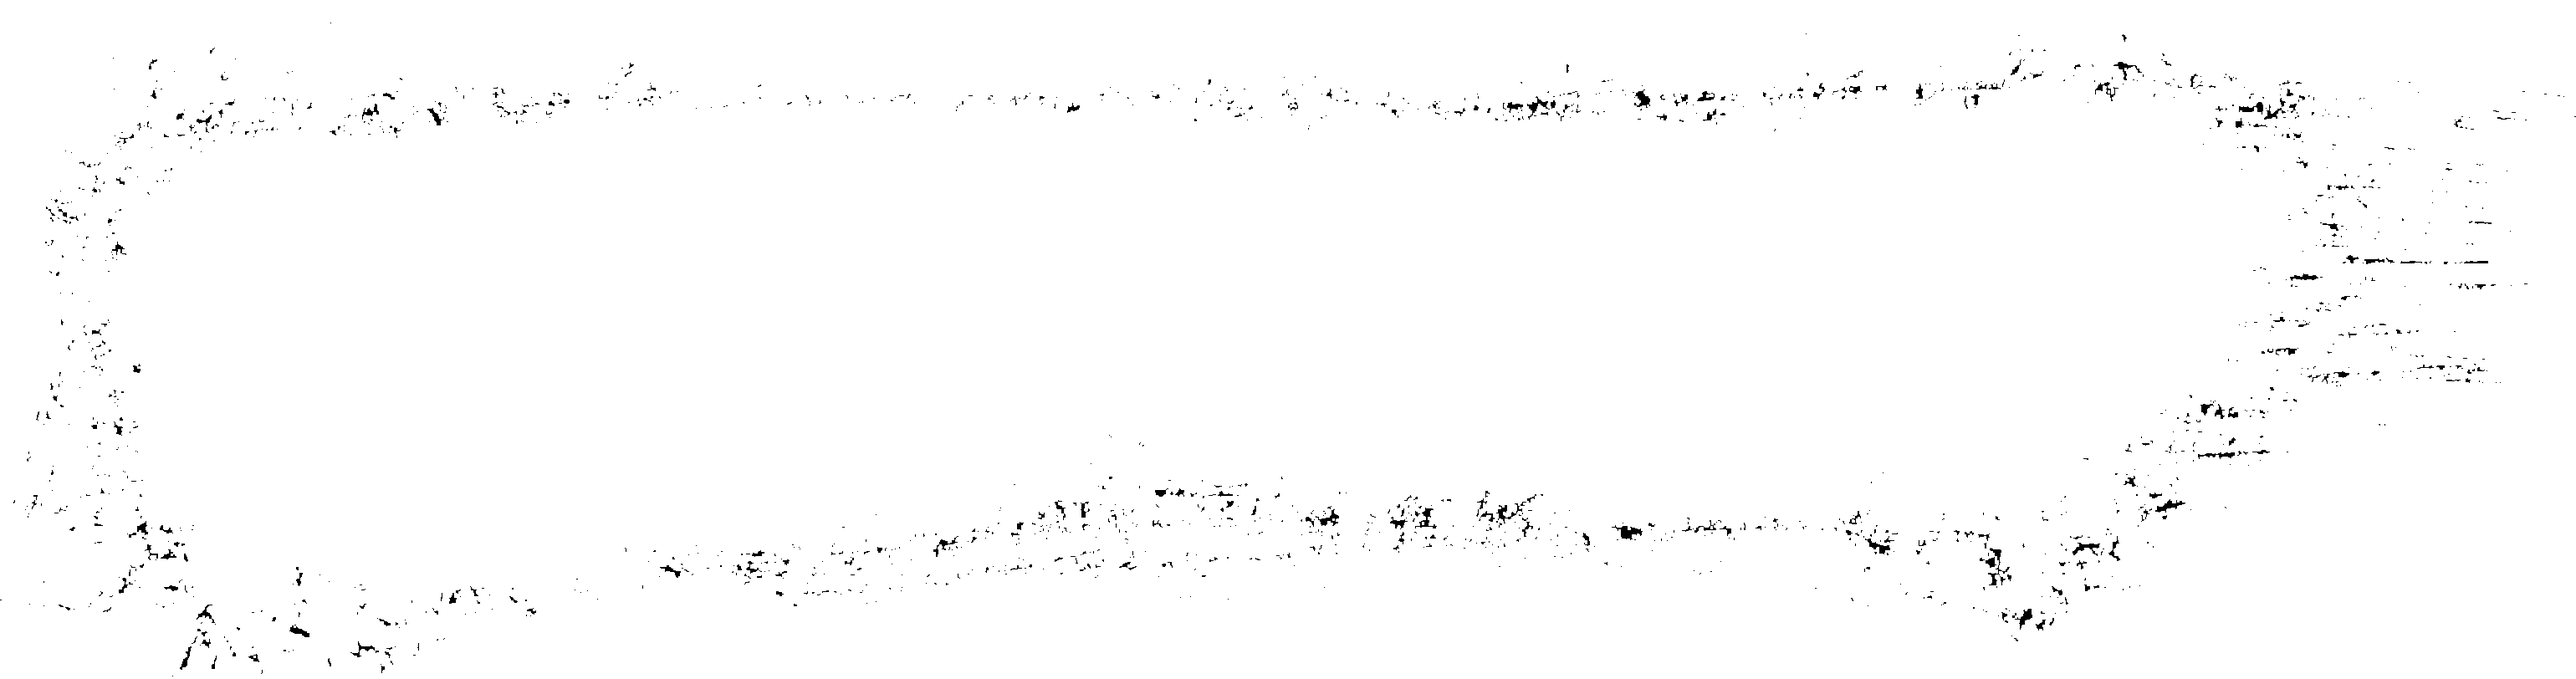
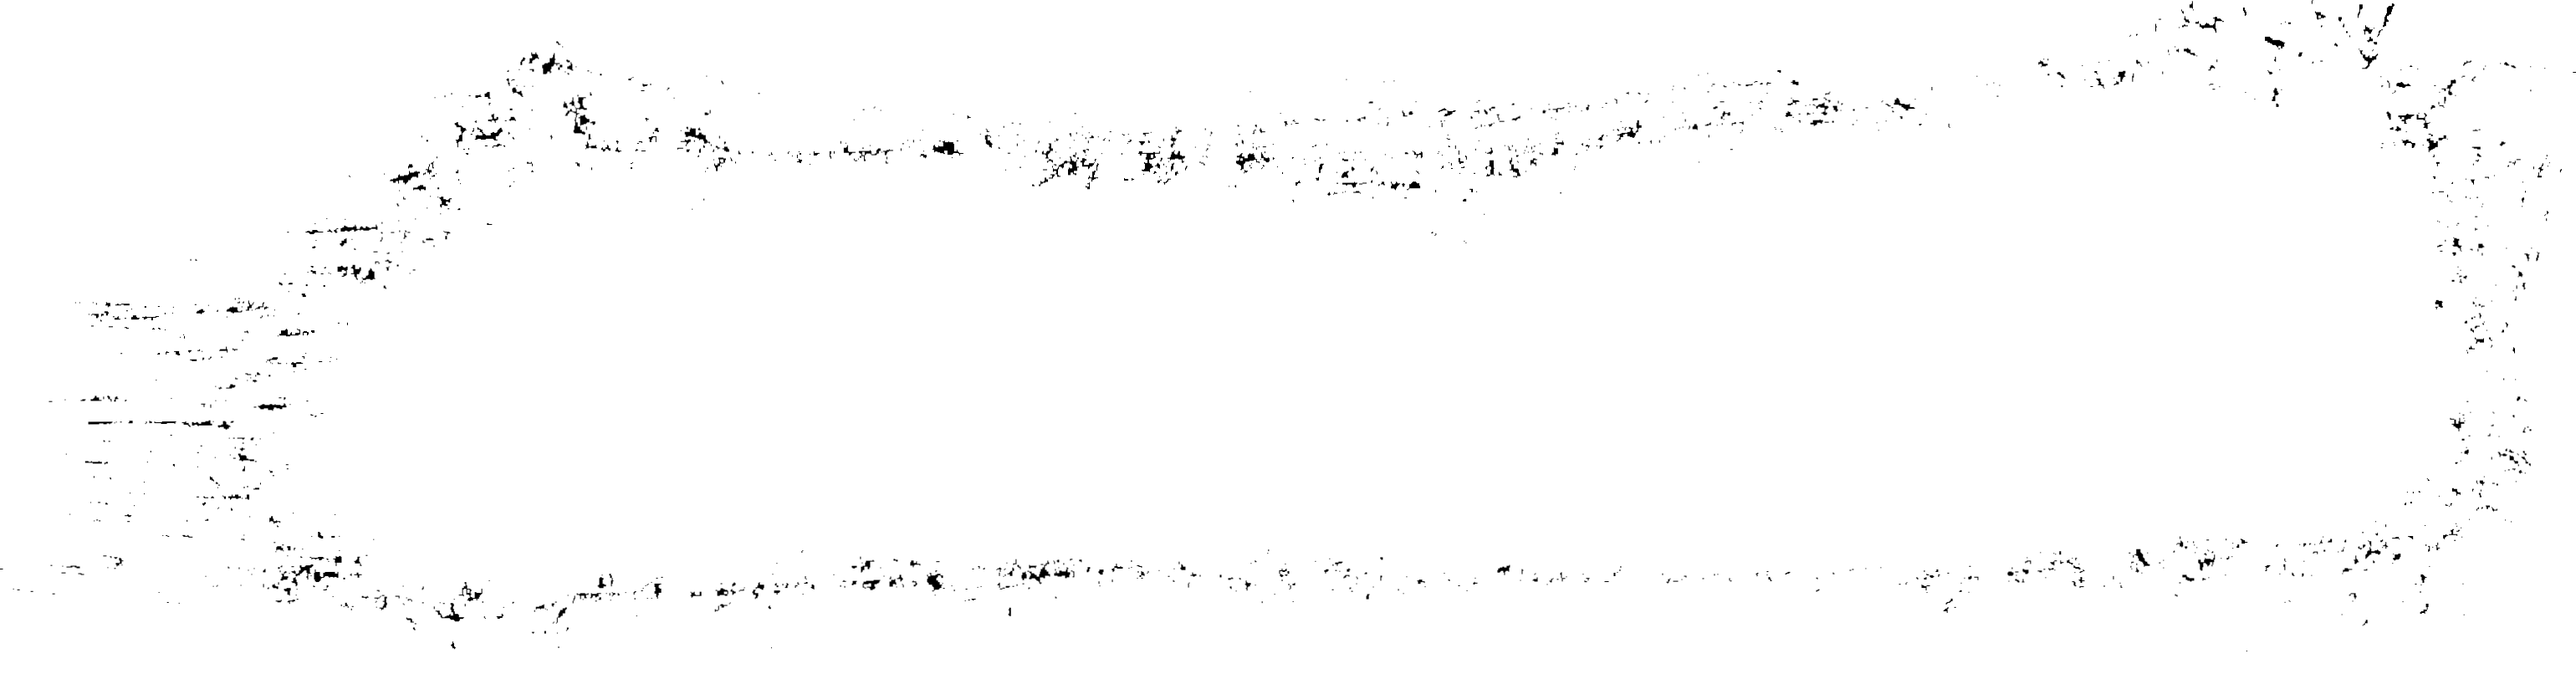
added recent post container chaged description text

diff --git a/components/landing/container/ParallaxContainer.tsx b/components/landing/container/ParallaxContainer.tsx
@@ -1,5 +1,8 @@
 import { Parallax, ParallaxLayer } from "@react-spring/parallax";
+import { rgb, rgba } from "@react-spring/shared";
+import Link from "next/link";
 import { useRef } from "react";
+import { WomLink } from "../../navigation/largeDevice/WomLink";
 import { RecentPosts } from "../../postcontainer/RecentPosts";
 
 import { PageTitle } from "../titles/PageTitle";
@@ -19,7 +22,7 @@ export const ParallaxContainer = () => {
   return (
     <section>
       <Parallax
-        pages={20}
+        pages={40}
         style={{
           width: "85vw",
           height: "90vh",
@@ -35,7 +38,7 @@ export const ParallaxContainer = () => {
             return (
               <ParallaxLayer
                 key={key}
-                sticky={{ start: 1 + 0.7 * key, end: 6.5 + 0.7 * key }}
+                sticky={{ start: 1 + 0.7 * key, end: 11.8 + 0.7 * key }}
                 factor={0.1}
               >
                 <div
@@ -48,14 +51,67 @@ export const ParallaxContainer = () => {
             );
           })}
         </>
-        <ParallaxLayer
-          horizontal={true}
-          sticky={{ start: 13, end: 20 }}
-          className="flex items-center "
-        >
-          <ParallaxLayer offset={5} speed={0.36} horizontal={true}>
+        <>
+          <ParallaxLayer
+            horizontal={true}
+            factor={0.1}
+            sticky={{ start: 4.5, end: 20 }}
+            className="flex items-center"
+          >
+            <ParallaxLayer
+              style={{ paddingTop: `455px` }}
+              sticky={{ start: 7.2, end: 16 }}
+              horizontal={false}
+            >
+              <div className="w-[70vw] absolute h-[20px] ml-[-150px] bg-wBrush bg-black bg-contain bg-no-repeat bg-[length:100%_40px]"></div>
+            </ParallaxLayer>
+
+            <ParallaxLayer
+              style={{
+                width: "105vw",
+                height: "25px",
+                marginTop: `455px`,
+                background: "rgb(26,25,25)",
+              }}
+              offset={2.9}
+              speed={0.85}
+              horizontal={true}
+            ></ParallaxLayer>
+            <ParallaxLayer
+              style={{
+                width: "100vw",
+                height: "25px",
+                marginTop: `455px`,
+                background: "rgb(26,25,25)",
+              }}
+              offset={7}
+              speed={0.75}
+              horizontal={true}
+            ></ParallaxLayer>
+          </ParallaxLayer>
+        </>
+
+        <ParallaxLayer sticky={{ start: 17, end: 32 }} speed={0.5}>
+          <h2 className="absolute right-0 top-5 text-center font-naruto text-white text-4xl">
+            recent posts
+          </h2>
+        </ParallaxLayer>
+        <ParallaxLayer horizontal={true} sticky={{ start: 17, end: 33 }}>
+          <ParallaxLayer
+            className="flex items-center"
+            offset={6}
+            speed={0.44}
+            horizontal={true}
+          >
             <RecentPosts posts={[]} />;
           </ParallaxLayer>
+        </ParallaxLayer>
+        <ParallaxLayer sticky={{ start: 17, end: 32 }} speed={0.5}>
+          <Link href={"/test"}>
+            <a className="w-40 absolute bottom-5 text-center font-naruto text-white text-4xl">
+              all posts
+            </a>
+          </Link>
         </ParallaxLayer>
       </Parallax>
     </section>

diff --git a/components/postcontainer/RecentPosts.tsx b/components/postcontainer/RecentPosts.tsx
@@ -4,7 +4,7 @@ import { IMiniCardPost, PostCard } from "./PostCard";
 const DUMMY_POSTS = [
   {
     id: "p1",
-    title: "Das ist ein Titel",
+    title: "How is Boxing Scored? The Boxing Point System Explained",
     imageLink: "/assets/images/test.jpg",
     linkToPost: "tree",
     preview:
@@ -12,8 +12,8 @@ const DUMMY_POSTS = [
   },
   {
     id: "p2",
-    title: "Das ist ein Titel",
-    imageLink: "/assets/images/test.jpg",
+    title: "How to Measure Reach in Boxing?",
+    imageLink: "/assets/images/box.jpg",
     linkToPost: "tree",
     preview:
       "Lorem ipsum dolor sit amet, consetetur sadipscing elitr, sed diam nonumy eirmod tempor invidunt ut labore et dolore magna aliquyam erat, sed diam voluptua. At vero eos et accusam et justo duo dolores et ea rebum. Stet clita kasd gubergren, no sea takimata sanctus est Lorem ipsum dolor sit amet. Lorem ipsum dolor sit amet, consetetur sadipscing elitr, sed diam nonumy eirmod tempor invidunt ut labore et dolore magna aliquyam erat, sed diam voluptua. At",
@@ -60,7 +60,7 @@ const DUMMY_POSTS = [
 
 export const RecentPosts: React.FC<IPost> = ({ posts }) => {
   return (
-    <section className="w-screen h-screen flex items-center">
+    <section className="w-[200vw] h-auto flex items-center justify-evenly  -mt-20">
       {DUMMY_POSTS.map((post: IMiniCardPost, key: number) => {
         return <PostCard key={key} {...post} />;
       })}

diff --git a/components/postcontainer/PostCard.tsx b/components/postcontainer/PostCard.tsx
@@ -14,11 +14,24 @@ export const PostCard: React.FC<IMiniCardPost> = ({
   linkToPost,
 }) => {
   return (
-    <div className="w-screen h-screen border border-white">
-      <a>
-        <strong>{title}</strong>
-        <Image width={700} height={1000} src={imageLink} alt=""></Image>
-      </a>
+    <div className="w-[350px] h-[700] cursor-pointer m-3">
+      <div>
+        <a>
+          <Image
+            className="rounded-t-2xl top-0"
+            width={350}
+            height={350}
+            src={imageLink}
+            alt=""
+          ></Image>
+        </a>
+        <div className="w-[75px] h-[75px] relative bottom-[40px] left-[-37px] z-3 rotate-[45deg] bg-black border  border-white"></div>
+      </div>
+      <div>
+        <h3 className="w-[350px] h-[350] -mt-10 p-5 absolute font-naruto text-2xl text-white text-center">
+          {title}
+        </h3>
+      </div>
     </div>
   );
 };

diff --git a/tailwind.config.js b/tailwind.config.js
@@ -12,7 +12,8 @@ module.exports = {
         naruto: ["naruto"]
       },
       backgroundImage: {
-        brush: "url('../public/assets/images/brush.png')"
+        brush: "url('../public/assets/images/brush.png')",
+        wBrush: "url('../public/assets/images/wBrush.png')"
       },
       backgroundPosition: {
         topBar: "-150px",
